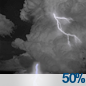
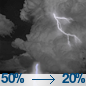
wire: 2026-08-26 RSA-0826-WIRE-31 + first sports/weather siblings

diff --git a/wire.html b/wire.html
@@ -12,8 +12,8 @@
   <meta property="og:description" content="National, global, and tech briefing for citizens and pastors. Civic week lives on RESOLUTE Local. Sports and weather have their own pages.">
   <meta property="og:type" content="website">
   <meta property="og:url" content="https://usmcmin.com/wire.html">
-  <meta property="og:image" content="https://usmcmin.com/assets/og/wire-dvids-9872029-lincoln-f35c-1200x630.jpg">
-  <meta name="twitter:image" content="https://usmcmin.com/assets/og/wire-dvids-9872029-lincoln-f35c-1200x630.jpg">
+  <meta property="og:image" content="https://usmcmin.com/assets/og/wire-dvids-9858454-blue-angels-1200x630.jpg">
+  <meta name="twitter:image" content="https://usmcmin.com/assets/og/wire-dvids-9858454-blue-angels-1200x630.jpg">
   <meta property="og:image:width" content="1200">
   <meta property="og:image:height" content="630">
   <meta name="twitter:image:width" content="1200">
@@ -129,18 +129,18 @@
     <header class="mast" id="top">
       <h1>RESOLUTE <em>Wire</em></h1>
       <p class="dek">National, global, and tech briefing for citizens and pastors. Civic week lives on RESOLUTE Local. Sports and weather have their own pages.</p>
-      <div class="meta">Wednesday, August 26, 2026 · AM edition · Rush Sullivan · RSA-0826-WIRE-30</div>
+      <div class="meta">Wednesday, August 26, 2026 · PM edition · Rush Sullivan · RSA-0826-WIRE-31</div>
     </header>
     <article class="hero">
       <div class="hero-media">
-        <img src="assets/wire/dvids-9872029-lincoln-f35c-1000w.jpg" alt="">
-        <div class="hero-credit">U.S. Navy photo by NAVCENT Public Affairs · DVIDS 9872029 · PUBLIC DOMAIN · An F-35C Lightning II assigned to Marine Fighter Attack Squadron (VMFA) 314 prepares to launch from USS Abraham Lincoln (CVN 72), Aug. 11, 2026. Caption must say Aug. 11 5th Fleet file photo, not today’s Indian Ocean position.</div>
+        <img src="assets/wire/dvids-9858454-blue-angels-1000w.jpg" alt="">
+        <div class="hero-credit">U.S. Air Force photo by Airman 1st Class Keola Vischi · DVIDS 9858454 · PUBLIC DOMAIN · A Blue Angels F/A-18 Super Hornet at Arctic Thunder, Joint Base Elmendorf-Richardson, Alaska, Aug. 8, 2026. Caption must say Aug. 8 file photo, not today’s stand-down announcement.</div>
       </div>
       <div class="hero-body">
         <span class="chip">USNI News</span>
-        <h2><a href="https://news.usni.org/2026/08/25/uss-abraham-lincoln-deployment-on-track-to-be-2nd-longest-since-vietnam-war" target="_blank" rel="noopener">USNI: Lincoln is on track for the second-longest carrier cruise since the Cold War</a></h2>
-        <p class="insight">USNI reported Tuesday that USS Abraham Lincoln (CVN-72) is weeks from a 295-day mark on Sept. 12, which would be the second-longest carrier deployment since the Cold War, behind only USS Gerald R. Ford’s cruise that ended in May. As of Tuesday, Lincoln, its escorts, and Carrier Air Wing 9 were in the Indian Ocean. The Navy has not published a homecoming date.</p>
-        <div class="src">USNI News · <a href="https://news.usni.org/2026/08/25/uss-abraham-lincoln-deployment-on-track-to-be-2nd-longest-since-vietnam-war" target="_blank" rel="noopener">Read source →</a></div>
+        <h2><a href="https://news.usni.org/2026/08/26/navy-flight-demonstration-team-stand-down-ends-growler-team-still-grounded" target="_blank" rel="noopener">USNI: TACDEMO teams resume air shows; Growler unit stays grounded</a></h2>
+        <p class="insight">USNI, Wednesday: Naval Air Forces told the outlet some tactical demonstration teams are back on the air-show circuit. All TACDEMO teams except the Growler demo team have been cleared since June 10, said Cmdr. Amelia Umayam, a Naval Air Forces spokesperson. The Growler team remains grounded. The Navy did not publish a return date for that unit.</p>
+        <div class="src">USNI News · <a href="https://news.usni.org/2026/08/26/navy-flight-demonstration-team-stand-down-ends-growler-team-still-grounded" target="_blank" rel="noopener">Read source →</a></div>
       </div>
     </article>
     <section class="rails" aria-label="Channel rails">
@@ -148,24 +148,24 @@
         <h3>Political</h3>
         <article class="item no-media">
           <div>
-            <h4><a href="https://www.defensenews.com/global/asia-pacific/2026/08/26/first-north-korea-russia-road-bridge-nearly-complete-symbolizing-new-era-of-military-cooperation/" target="_blank" rel="noopener">Defense News: the first North Korea–Russia road bridge is nearly finished</a></h4>
-            <p>Defense News, Wednesday from Vienna: Planet satellite imagery shows the first road bridge across the Tumen River at Tumangang is nearly complete on the North Korean side, including a customs building and a controlled entry. Construction on the Russian approach, the road, and border facilities is still unfinished. No opening date for commercial traffic was published.</p>
-            <div class="who">Defense News</div>
+            <h4><a href="https://news.usni.org/2026/08/26/u-s-allies-kick-off-drills-at-strategic-norwegian-island" target="_blank" rel="noopener">USNI: U.S., Norway, and Britain open drills on Jan Mayen</a></h4>
+            <p>USNI, Wednesday: U.S., Norwegian, and British forces deployed to Jan Mayen for Operation Atlantic City, a NATO Arctic Sentry drill that runs through Sept. 4. A MARFOREUR/AF release says the island sits north of the Greenland-Iceland-U.K. gap. U.S. units include II MEF, 10th Marines, and a New Hampshire Guard HIMARS platoon.</p>
+            <div class="who">USNI News</div>
           </div>
           
         </article>
         <article class="item no-media">
           <div>
-            <h4><a href="https://www.defensenews.com/news/your-navy/2026/08/25/uss-abraham-lincoln-to-dock-in-thailand-next-week-thai-official-says/" target="_blank" rel="noopener">Defense News: Lincoln is due in Thailand next week</a></h4>
-            <p>Defense News, Tuesday: a Thai official said Abraham Lincoln will dock in Thailand next week for rest after leaving the Middle East on Saturday. Thailand’s Navy confirmed a U.S. carrier strike group will make a brief stop in the east, with no exercises, and did not name the ships or the date. The U.S. Embassy in Bangkok did not immediately comment.</p>
-            <div class="who">Defense News</div>
+            <h4><a href="https://www.southcom.mil/News/PressReleases/Article/4583027/lethal-kinetic-strike-august-25-2026/" target="_blank" rel="noopener">SOUTHCOM: four killed in a Caribbean go-fast strike</a></h4>
+            <p>U.S. Southern Command said Tuesday that Joint Task Force Western Hemisphere struck a go-fast vessel on a known Caribbean trafficking route and killed four people it called narco-terrorists. Gen. Francis L. Donovan said the task force will keep hunting those networks. SOUTHCOM cited confirmed intelligence and did not publish cargo recovered from the boat.</p>
+            <div class="who">U.S. Southern Command</div>
           </div>
           
         </article>
         <article class="item no-media">
           <div>
-            <h4><a href="https://www.defensenews.com/global/europe/2026/08/25/ukraine-needs-changes-to-avoid-losing-war-ousted-defense-minister-says/" target="_blank" rel="noopener">Defense News: ousted Ukraine minister says Kyiv is slowly losing</a></h4>
-            <p>Defense News, Tuesday: former Defence Minister Mykhailo Fedorov told Reuters Ukraine appears to be slowly losing the war and has a window of several months to change course. Ukraine’s presidential office said he had been positive about the war while he was in the ministry. Fedorov said it was too early to say whether he would run for president.</p>
+            <h4><a href="https://www.defensenews.com/global/europe/2026/08/26/italy-to-request-eu-defense-loan-after-all-but-scales-back-amount/" target="_blank" rel="noopener">Defense News: Italy asks Brussels for €8 billion in defense loans</a></h4>
+            <p>Defense News, Wednesday from Rome: Italy asked the EU’s SAFE fund for €8 billion in cheap defense loans, down from a planned €14.9 billion. A source familiar with the talks confirmed the request. Prime Minister Giorgia Meloni’s coalition had delayed for months. The report does not say when Brussels will decide.</p>
             <div class="who">Defense News</div>
           </div>
           
@@ -175,17 +175,17 @@
         <h3>Tech / AI</h3>
         <article class="item no-media">
           <div>
-            <h4><a href="https://www.defensenews.com/industry/techwatch/2026/08/25/us-navys-new-anti-submarine-torpedo-will-be-a-glide-weapon/" target="_blank" rel="noopener">Defense News: the Navy’s next air-launched torpedo would glide in</a></h4>
-            <p>Defense News, Tuesday: the Navy is asking industry for Silent Anvil, an air-launched anti-submarine torpedo that glides into the water. One path is a new compact round; the other is a glide kit on an existing torpedo. The request for information closes Sept. 29. A prototype is sought within 18 months of an award. The Navy did not publish a range.</p>
+            <h4><a href="https://www.defensenews.com/news/your-army/2026/08/26/us-army-seeks-8000-new-short-range-missiles-per-year/" target="_blank" rel="noopener">Defense News: the Army wants 8,000 short-range missiles a year</a></h4>
+            <p>Defense News, Wednesday: the Army posted a sources-sought notice for a Hellfire-class missile that can fire from an M299 or equivalent launcher. Industry replies are due Sept. 15. After award, the first batch of up to 8,000 rounds is due in two years, then up to 8,000 a year. The notice wants an active production line.</p>
             <div class="who">Defense News</div>
           </div>
           
         </article>
         <article class="item no-media">
           <div>
-            <h4><a href="https://lawliberty.org/gorsuchs-con-jority-opinion-in-slaughter/" target="_blank" rel="noopener">Law &amp; Liberty: Gorsuch’s Slaughter concurrence points past Humphrey’s</a></h4>
-            <p>Law &amp; Liberty, Monday: in Trump v. Slaughter the Court held the president may remove the FTC’s head, overruling Humphrey’s Executor. Justice Neil Gorsuch voted with the majority. His concurrence, which no other justice joined, argues the Court should next return legislative and judicial powers from agencies to Congress and the courts.</p>
-            <div class="who">Law &amp; Liberty</div>
+            <h4><a href="https://www.gov.uk/government/news/britain-is-100-behind-you-prime-minister-andy-burnham-visits-kyiv-on-ukrainian-independence-day-for-first-international-trip" target="_blank" rel="noopener">UK: MBDA may share SCALP parts data so Ukraine can assemble</a></h4>
+            <p>The British government said Monday that MBDA may release classified data on U.K. parts of the SCALP cruise missile so Ukraine and France can assemble the weapon in Ukraine. Defense News, Wednesday: Kyiv now has the licenses, but wartime factories are unlikely to turn out large numbers soon. No first-delivery date was published.</p>
+            <div class="who">GOV.UK / Defense News</div>
           </div>
           
         </article>
@@ -212,7 +212,7 @@
     </section>
     <section class="watch">
       <h3>Watch</h3>
-      <ul><li><a href="https://news.usni.org/2026/08/25/marine-corps-lab-accepts-surface-craft-prototype" target="_blank" rel="noopener">WATCH: the Marine lab has the first Ancillary Surface Craft</a> USNI reported Tuesday that the Marine Corps Warfighting Laboratory accepted the first of two Ancillary Surface Craft prototypes, citing a lab release last week. The craft is built to move Marines and supplies onto shallow, unimproved shores. The Corps has not said when the second hull arrives, and it has not named a production buy.</li></ul>
+      <ul><li><a href="https://news.usni.org/2026/08/25/uss-abraham-lincoln-deployment-on-track-to-be-2nd-longest-since-vietnam-war" target="_blank" rel="noopener">WATCH: Lincoln is still weeks from a 295-day mark</a> USNI reported Tuesday that USS Abraham Lincoln (CVN-72) is weeks from a 295-day mark on Sept. 12, which would be the second-longest carrier deployment since the Cold War, behind only USS Gerald R. Ford’s cruise that ended in May. As of Tuesday, Lincoln and Carrier Air Wing 9 were in the Indian Ocean. The Navy has not published a homecoming date.</li></ul>
     </section>
     <section class="dock">
       <a href="sports.html"><div class="k">Texas desk</div><div class="t">Sports</div><div class="d">Texans, Astros, Rockets — character and the score.</div></a>

diff --git a/weather.html b/weather.html
@@ -125,7 +125,7 @@
     <header class="mast" id="top">
       <h1>RESOLUTE <em>Weather</em></h1>
       <p class="dek">Fredericksburg, Virginia — National Weather Service. Readiness, not climate talk.</p>
-      <div class="meta">Wednesday, August 26, 2026 · AM edition · J-5 Fredericksburg NWS · RSA-0826-WIRE-30</div>
+      <div class="meta">Wednesday, August 26, 2026 · PM edition · J-5 Fredericksburg NWS · RSA-0826-WIRE-31</div>
     </header>
     <article class="hero">
       <div class="hero-media">
@@ -134,15 +134,15 @@
       </div>
       <div class="hero-body">
         <span class="chip">NWS / Readiness</span>
-        <h2>Mostly sunny today. The storm window is still Thursday.</h2>
-        <p class="insight">Actionable: no active NWS alerts on the Fredericksburg point as of 08:05 EDT. Today is mostly sunny, high near 88. Tonight stays mostly cloudy, 70. Thursday is the next real window — chance of storms after 11 a.m., 40 percent, then Thursday night 50. Clarity, not fear. Check outdoor plans now; do not wait on social media for a watch that is not up.</p>
-        <div class="src">Alerts: NWS alerts API returned an empty feature list for this point (updated 2026-08-26T12:00:00+00:00). No watch or warning is up. · <a href="https://forecast.weather.gov/MapClick.php?lat=38.3032&amp;lon=-77.4605" target="_blank" rel="noopener">NWS forecast →</a></div>
-        <ul class="actions"><li>No active watch/warning on this point</li><li>Today: mostly sunny, 88</li><li>Next storm chance is Thursday (40%), then Thursday night (50%) — not this morning</li></ul>
+        <h2>Partly sunny this afternoon. The storm window is still Thursday.</h2>
+        <p class="insight">Actionable: no active NWS alerts on the Fredericksburg point as of 16:30 EDT. This afternoon is partly sunny, high near 88. Tonight stays mostly cloudy, 70. Thursday is the next real window — chance of storms after 1 p.m., 30 percent, then Thursday night 50. Clarity, not fear. Check outdoor plans now; do not wait on social media for a watch that is not up.</p>
+        <div class="src">Alerts: NWS alerts API returned an empty feature list for this point (updated 2026-08-26T20:32:07+00:00). No watch or warning is up. · <a href="https://forecast.weather.gov/MapClick.php?lat=38.3032&amp;lon=-77.4605" target="_blank" rel="noopener">NWS forecast →</a></div>
+        <ul class="actions"><li>No active watch/warning on this point</li><li>This afternoon: partly sunny, 88</li><li>Next storm chance is Thursday (30%), then Thursday night (50%) — not tonight</li></ul>
       </div>
     </article>
     <section class="watch">
       <h3>Forecast</h3>
-      <div class="period"><img class="period-icon" src="assets/weather/nws-today-sct.png" alt=""><div><strong>Today</strong><p class="insight">Mostly sunny, with a high near 88. South wind 1 to 7 mph.</p></div></div><div class="period"><img class="period-icon" src="assets/weather/nws-tonight-bkn.png" alt=""><div><strong>Tonight</strong><p class="insight">Mostly cloudy, with a low around 70. South wind around 6 mph.</p></div></div><div class="period"><img class="period-icon" src="assets/weather/nws-thursday-tsra.png" alt=""><div><strong>Thursday</strong><p class="insight">A chance of showers and thunderstorms after 11am. Partly sunny, with a high near 90. South wind 3 to 8 mph. Chance of precipitation is 40%. New rainfall amounts less than a tenth of an inch possible.</p></div></div><div class="period"><img class="period-icon" src="assets/weather/nws-thursday-night-tsra-sct.png" alt=""><div><strong>Thursday Night</strong><p class="insight">A chance of showers and thunderstorms before 2am. Mostly cloudy, with a low around 69. South wind 0 to 6 mph. Chance of precipitation is 50%. New rainfall amounts less than a tenth of an inch possible.</p></div></div>
+      <div class="period"><img class="period-icon" src="assets/weather/nws-this-afternoon-bkn.png" alt=""><div><strong>This Afternoon</strong><p class="insight">Partly sunny, with a high near 88. South wind around 8 mph.</p></div></div><div class="period"><img class="period-icon" src="assets/weather/nws-tonight-bkn.png" alt=""><div><strong>Tonight</strong><p class="insight">Mostly cloudy, with a low around 70. South wind around 6 mph.</p></div></div><div class="period"><img class="period-icon" src="assets/weather/nws-thursday-sct-tsra.png" alt=""><div><strong>Thursday</strong><p class="insight">A chance of showers and thunderstorms after 1pm. Mostly sunny, with a high near 90. South wind 3 to 8 mph. Chance of precipitation is 30%. New rainfall amounts less than a tenth of an inch possible.</p></div></div><div class="period"><img class="period-icon" src="assets/weather/nws-thursday-night-tsra-sct.png" alt=""><div><strong>Thursday Night</strong><p class="insight">A chance of showers and thunderstorms before 1am, then patchy fog between 2am and 4am. Mostly cloudy, with a low around 69. South wind 0 to 6 mph. Chance of precipitation is 50%. New rainfall amounts less than a tenth of an inch possible.</p></div></div>
       <div class="period"><img class="period-icon" src="assets/weather/goes19-conus-thumb.jpg" alt=""><div><strong>GOES-19 CONUS — the bigger picture</strong><p class="insight">NOAA GOES-19 GeoColor thumbnail. Official satellite, not a brand tile.</p></div></div>
     </section>
     <section class="dock">

diff --git a/sports.html b/sports.html
@@ -125,7 +125,7 @@
     <header class="mast" id="top">
       <h1>RESOLUTE <em>Sports</em></h1>
       <p class="dek">Texas desk — Texans, Astros, Rockets. Character and the score, not celebrity.</p>
-      <div class="meta">Wednesday, August 26, 2026 · AM edition · J-4 Texas desk · RSA-0826-WIRE-30</div>
+      <div class="meta">Wednesday, August 26, 2026 · PM edition · J-4 Texas desk · RSA-0826-WIRE-31</div>
     </header>
     <article class="hero">
       <div class="hero-media">
@@ -144,16 +144,16 @@
         <h3>Texas first</h3>
         <article class="item">
           <div>
-            <h4><a href="https://www.houstontexans.com/news/houston-texans-transactions-8-25-2026" target="_blank" rel="noopener">Texans: Boutte in, Reed out — then Carolina on Friday</a></h4>
-            <p>Club PR Tuesday: Houston acquired WR Kayshon Boutte from New England and sent S Jaylen Reed the other way. Last preseason game is still at the Panthers Friday, Aug. 28, 6 p.m. CT, Bank of America Stadium — NFL Network and KTRK. Do not print ESPN roster guesses the club page does not.</p>
+            <h4><a href="https://www.houstontexans.com/news/houston-texans-transactions-8-26-2026" target="_blank" rel="noopener">Texans: Parish in, Horton to IR — then Carolina on Friday</a></h4>
+            <p>Club PR Wednesday: Houston signed DE Derek Parish and placed DE Dylan Horton on Reserve/Injured. Tuesday’s Boutte/Reed trade still stands. Last preseason game is Friday, Aug. 28, 6 p.m. CT at the Panthers, Bank of America Stadium — NFL Network and KTRK. Do not print ESPN injury guesses the club page does not.</p>
             <div class="who">Houston Texans</div>
           </div>
           <div class="thumb"><img src="assets/sports/nrg-reliant-interior.jpg" alt=""></div>
         </article>
         <article class="item">
           <div>
-            <h4><a href="https://www.mlb.com/gameday/astros-vs-yankees/2026/08/25/823505" target="_blank" rel="noopener">Astros: beat the Yankees 9-7, then game two tonight</a></h4>
-            <p>MLB Stats API: gamePk 823505 at Yankee Stadium is Final — Astros 9, Yankees 7. Houston is 66-66. Game two of the series, gamePk 823506, is Scheduled tonight at Yankee Stadium.</p>
+            <h4><a href="https://www.mlb.com/gameday/astros-vs-yankees/2026/08/26/823506" target="_blank" rel="noopener">Astros: at the Yankees tonight, after a 9-7 win</a></h4>
+            <p>MLB Stats API: gamePk 823506 at Yankee Stadium is Pre-Game — first pitch 7:05 p.m. ET. Houston is 66-66. Tuesday’s opener, gamePk 823505, is Final — Astros 9, Yankees 7.</p>
             <div class="who">MLB.com / Houston Astros</div>
           </div>
           <div class="thumb"><img src="assets/sports/daikin-minute-maid-2010.jpg" alt=""></div>
@@ -161,7 +161,7 @@
         <article class="item">
           <div>
             <h4><a href="https://www.nba.com/rockets/news/rockets-announce-schedule-for-2026-27-nba-season" target="_blank" rel="noopener">Rockets slate still stands: Dallas on opening night</a></h4>
-            <p>Team schedule (Aug 13): regular season opens Oct 21 at home vs. Dallas, then San Antonio at Austin’s Moody Center Oct 23. Twenty-one national-TV games. Preseason China Games vs. Dallas Oct 9 and 11. No new club note this morning. A calendar, not a prediction.</p>
+            <p>Team schedule (Aug 13): regular season opens Oct 21 at home vs. Dallas, then San Antonio at Austin’s Moody Center Oct 23. Twenty-one national-TV games. Preseason China Games vs. Dallas Oct 9 and 11. No new club note this afternoon. A calendar, not a prediction.</p>
             <div class="who">Houston Rockets / NBA.com</div>
           </div>
           <div class="thumb"><img src="assets/sports/toyota-center-interior.jpg" alt=""></div>
